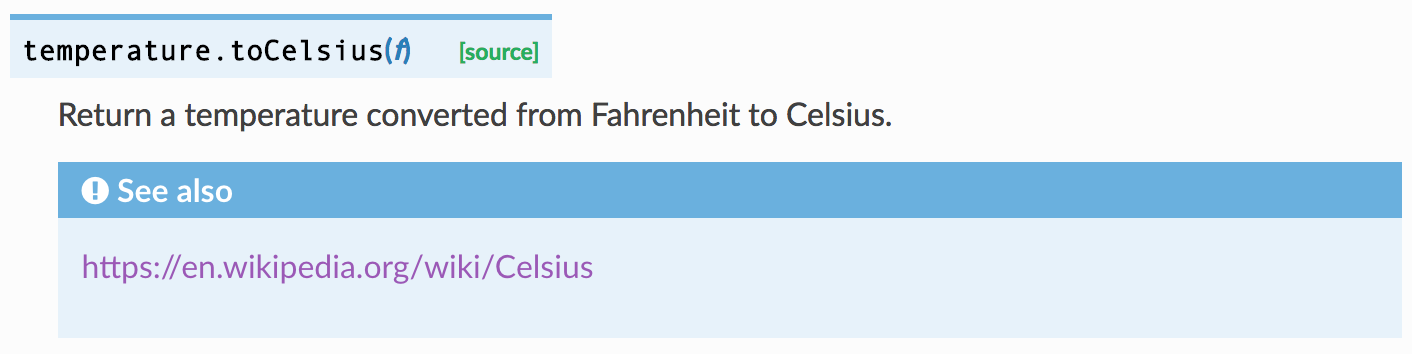
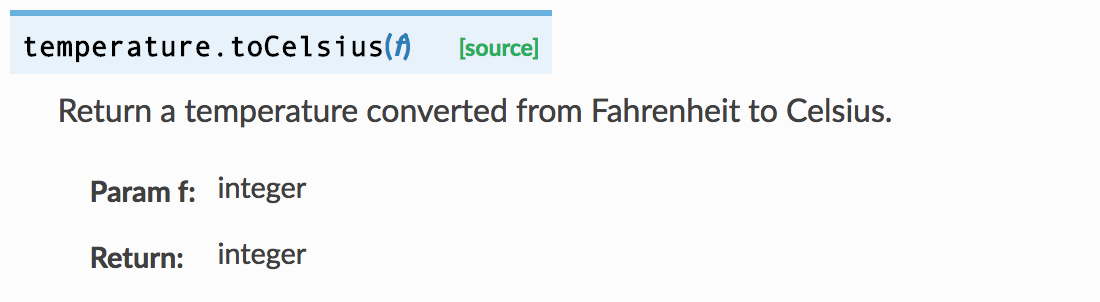
Update the introduction

diff --git a/doc/introduction.rst b/doc/introduction.rst
@@ -15,15 +15,21 @@ in docstrings in the form of:
     /**
      * Return a temperature converted from Fahrenheit to Celsius.
      *
-     * .. seealso:: https://en.wikipedia.org/wiki/Celsius
+     * :param f: integer
+     * :return: integer
      */
     function toCelsius(f) {
         return (5/9) * (f-32);
     }
 
 
-The documentation generated will be as follow:
+The documentation generated will be as follow (if using the `readthedocs
+<https://pypi.python.org/pypi/sphinx_rtd_theme>`_ template):
 
 .. image:: /image/doc-example.png
    :alt: Documentation generated from function
    :scale: 50 %
+
+.. seealso::
+
+    `Who is Champollion? <https://en.wikipedia.org/wiki/Jean-Fran%C3%A7ois_Champollion>`_
